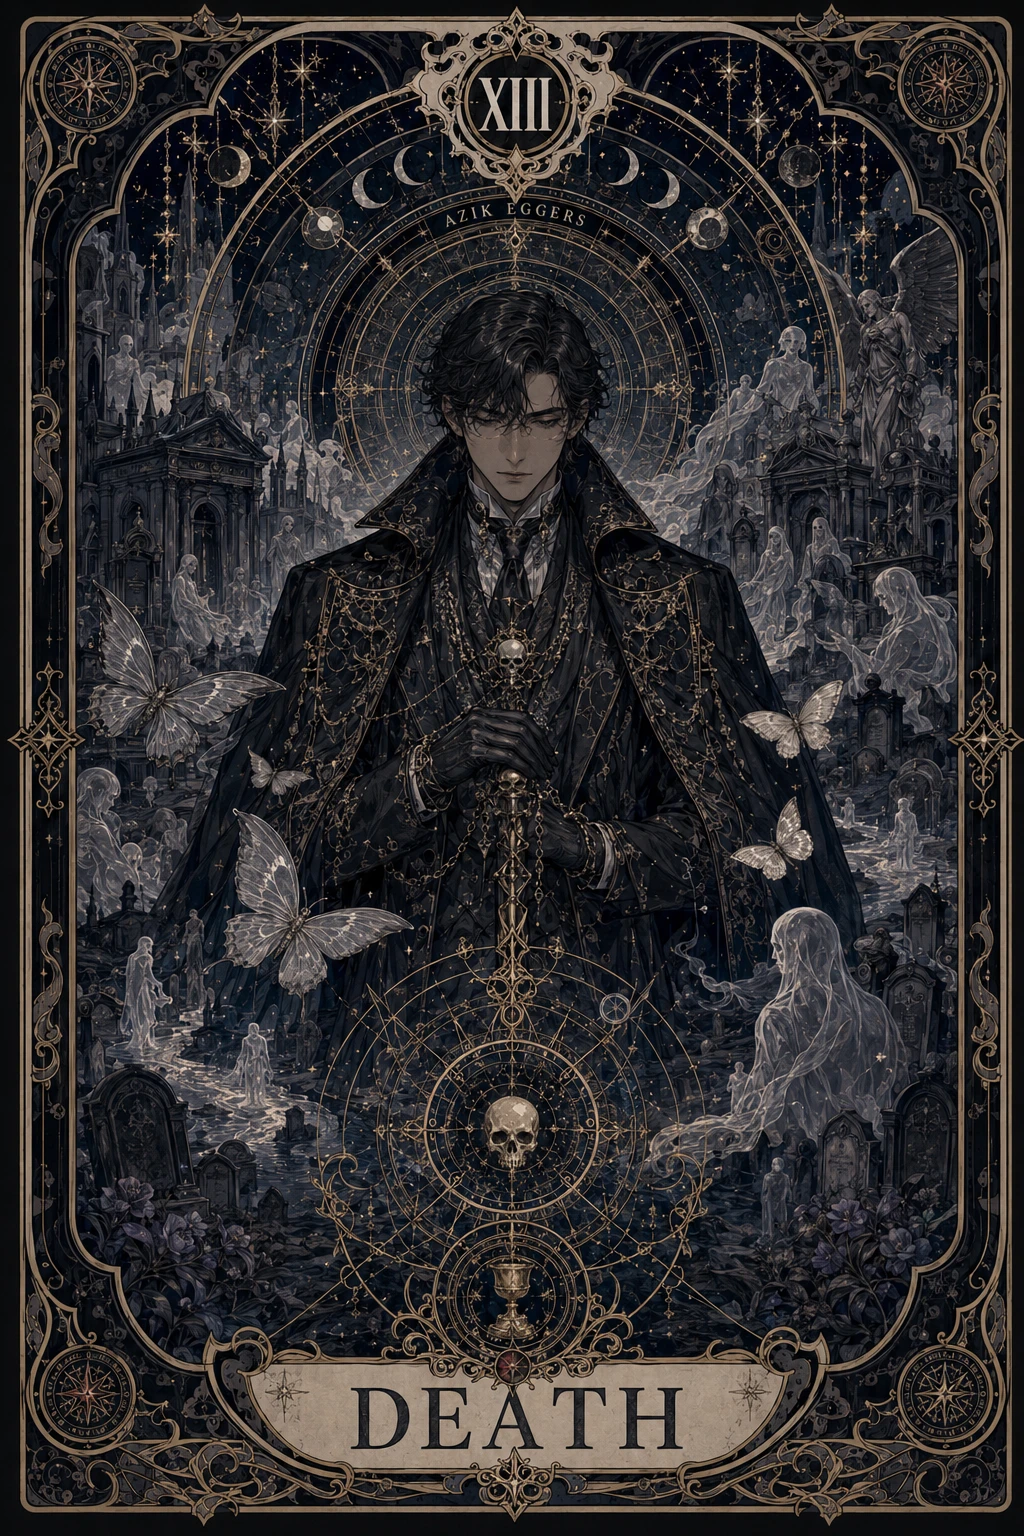
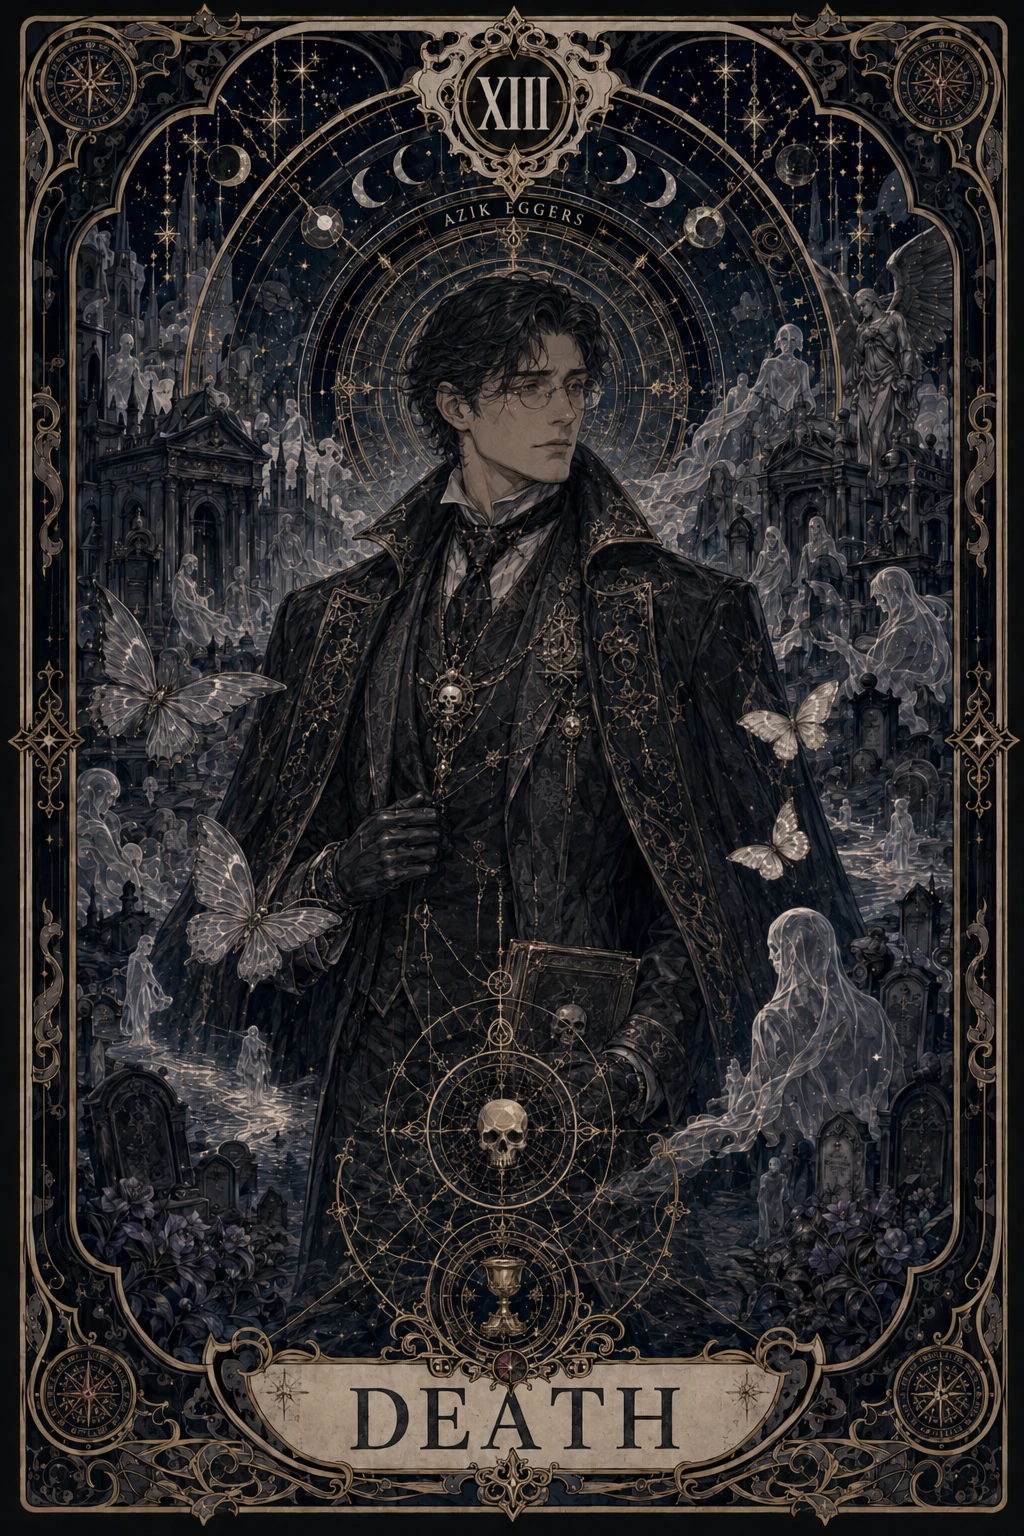
Update selected tarot cards

diff --git a/styles.css b/styles.css
@@ -80,7 +80,7 @@ a {
 .card-slider {
   position: relative;
   width: min(320px, 64vw);
-  aspect-ratio: 0.62;
+  aspect-ratio: 2 / 3;
   filter: drop-shadow(0 30px 42px rgba(0, 0, 0, 0.5));
   transform-origin: center;
   transition:
@@ -113,7 +113,7 @@ a {
   display: block;
   width: 100%;
   height: 100%;
-  object-fit: cover;
+  object-fit: contain;
 }
 
 .card-01 { animation-delay: 0s; }
